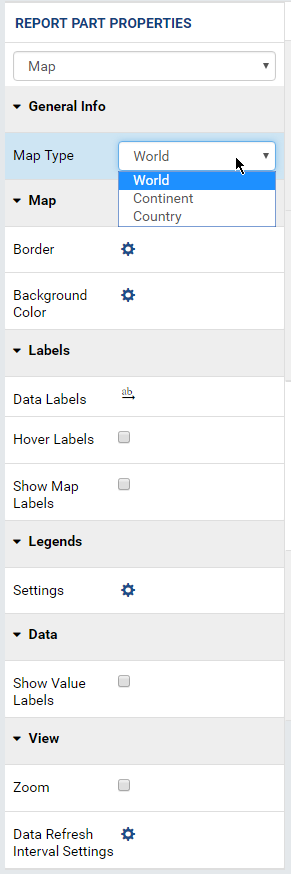
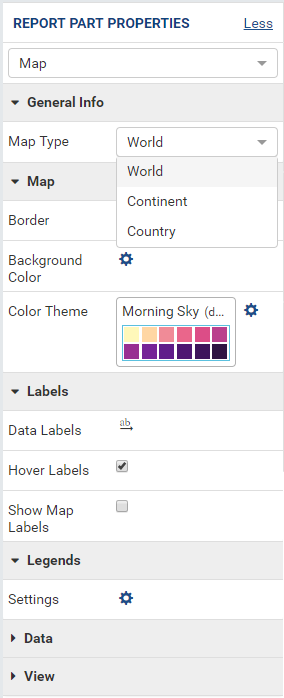
Color Theme in Report Part Properties

diff --git a/ui/doc_report_designer_gauge.rst b/ui/doc_report_designer_gauge.rst
@@ -12,7 +12,7 @@ Define a Linear Gauge
 
 .. _Gauge_Properties:
 
-.. figure:: /_static/images/Gauge_Properties.png
+.. figure:: /_static/images/Gauge_Properties.PNG
    :align: right
    :width: 251px
 
@@ -67,6 +67,20 @@ Preview pane:
 
 -  Customize the relative distance between the tick marks (in Intervals
    box for Linear Gauge only).
+-  .. _Gauge_Border_Settings:
+
+   .. figure:: /_static/images/Gauge_Border_Settings.png
+      :align: right
+      :width: 458px
+
+      Report Designer - Color Theme Selection
+
+   Configure color theme settings:
+
+   #. In Gauge group, click the gear icon (⚙) after the Color Theme option to open Color Theme Selection pop-up.
+   #. Choose a color theme.
+   #. Click OK to close the Color Theme Selection pop-up. |br|
+
 -  Select to use Separator. (See `Define
    Separator`_)
 -  It looks better to invert the Linear Gauge (to horizontal direction).

diff --git a/ui/doc_report_designer_chart.rst b/ui/doc_report_designer_chart.rst
@@ -59,8 +59,7 @@ Preview pane:
 
 
 
--  Set the
-   background color.
+-  Set the background color.
 
    #. In Chart group, click the gear icon (⚙) to open Chart Background
       Color Settings pop-up.
@@ -115,6 +114,20 @@ Preview pane:
          :width: 680px
 
          Chart - Grid Lines Settings |br|
+
+
+-  Configure color theme. This option is available from version 2.9.0.
+
+   #. In Chart group, click the gear icon (⚙) next to the Color Theme option to open Color Theme Selection pop-up.
+   #. Select a color theme and click OK to the pop-up.
+
+      .. _Color_Theme_Selection:
+
+      .. figure:: /_static/images/Color_Theme_Selection.PNG
+         :width: 680px
+
+         Chart - Color Theme Selection |br|
+
 
 -  Configure the text direction for
    the labels.

diff --git a/ui/doc_report_designer_map.rst b/ui/doc_report_designer_map.rst
@@ -60,6 +60,18 @@ Preview pane:
    #. Select the border thickness (in pixels).
    #. Click OK to close the Border Settings pop-up. |br|
 
+-  Configure border settings:
+
+   #. In Map group, click the gear icon (⚙) next to the Color Theme option to open Color Theme Selection pop-up.
+   #. Select a color theme and click OK to the pop-up.
+
+      .. _Color_Theme_Selection:
+
+      .. figure:: /_static/images/Color_Theme_Selection.PNG
+         :width: 680px
+
+         Map - Color Theme Selection |br|
+
 -  .. _Report_Map_Background_Color_Settings:
 
    .. figure:: /_static/images/Report_Map_Background_Color_Settings.png
